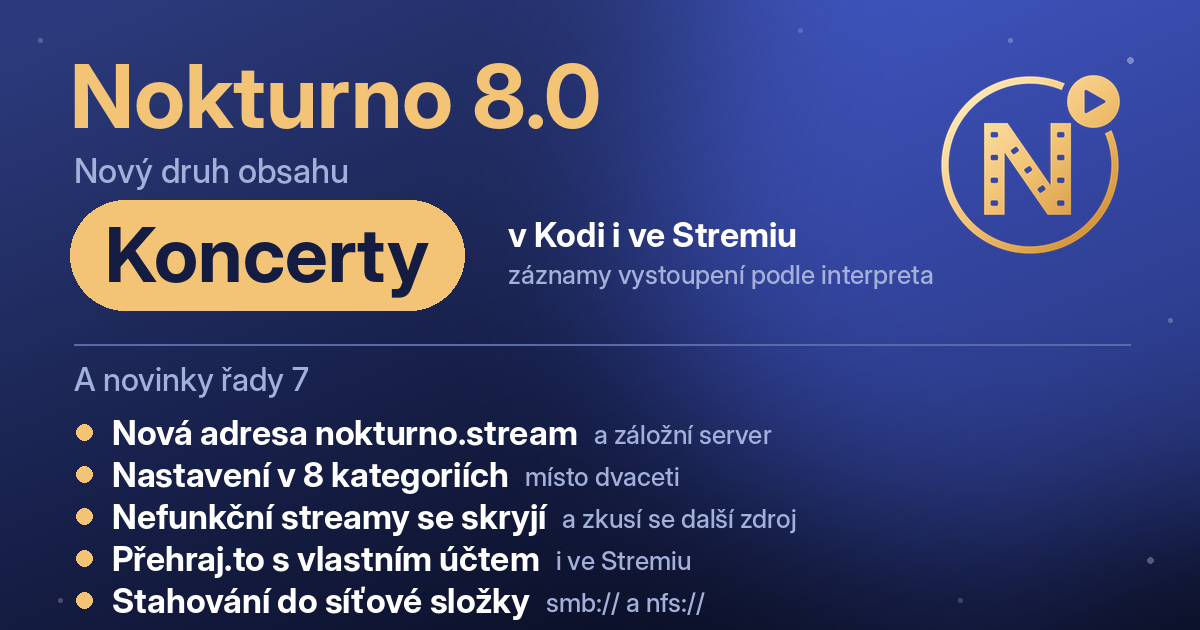
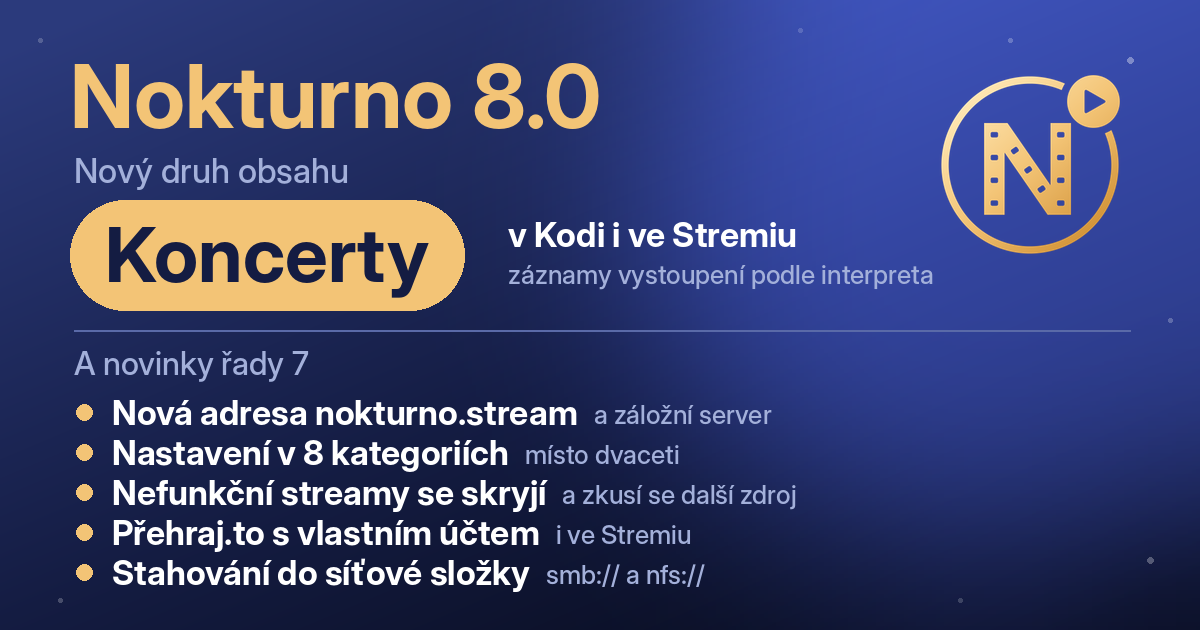
Obrazek 8.0: vetsi spodni okraj

Changed region(s): [[0.0617, 0.5127, 0.925, 0.9952]]

diff --git a/tools/make_icon.py b/tools/make_icon.py
@@ -364,20 +364,20 @@ def make_release_800(path):
     dr.text((x, 214), "v Kodi i ve Stremiu", font=font("InterDisplay-Bold.otf", 34), fill=bila)
     dr.text((x, 258), "záznamy vystoupení podle interpreta", font=font("InterDisplay-Medium.otf", 26), fill=dim)
 
-    dr.line((74, 344, 1130, 344), fill=(90, 106, 168), width=2)
-    dr.text((74, 360), "A novinky řady 7", font=font("InterDisplay-Medium.otf", 32), fill=dim)
+    dr.line((74, 330, 1130, 330), fill=(90, 106, 168), width=2)
+    dr.text((74, 344), "A novinky řady 7", font=font("InterDisplay-Medium.otf", 32), fill=dim)
     radky = [("Nová adresa nokturno.stream", "a záložní server"),
              ("Nastavení v 8 kategoriích", "místo dvaceti"),
              ("Nefunkční streamy se skryjí", "a zkusí se další zdroj"),
              ("Přehraj.to s vlastním účtem", "i ve Stremiu"),
              ("Stahování do síťové složky", "smb:// a nfs://")]
     big, small = font("InterDisplay-Bold.otf", 34), font("InterDisplay-Medium.otf", 26)
-    y = 412
+    y = 392
     for hlavni, doplnek in radky:
         dr.ellipse((76, y + 12, 92, y + 28), fill=gold)
         dr.text((112, y), hlavni, font=big, fill=bila)
         dr.text((112 + dr.textlength(hlavni, font=big) + 16, y + 6), doplnek, font=small, fill=dim)
-        y += 42
+        y += 40
     sky.save(path)
 
 
